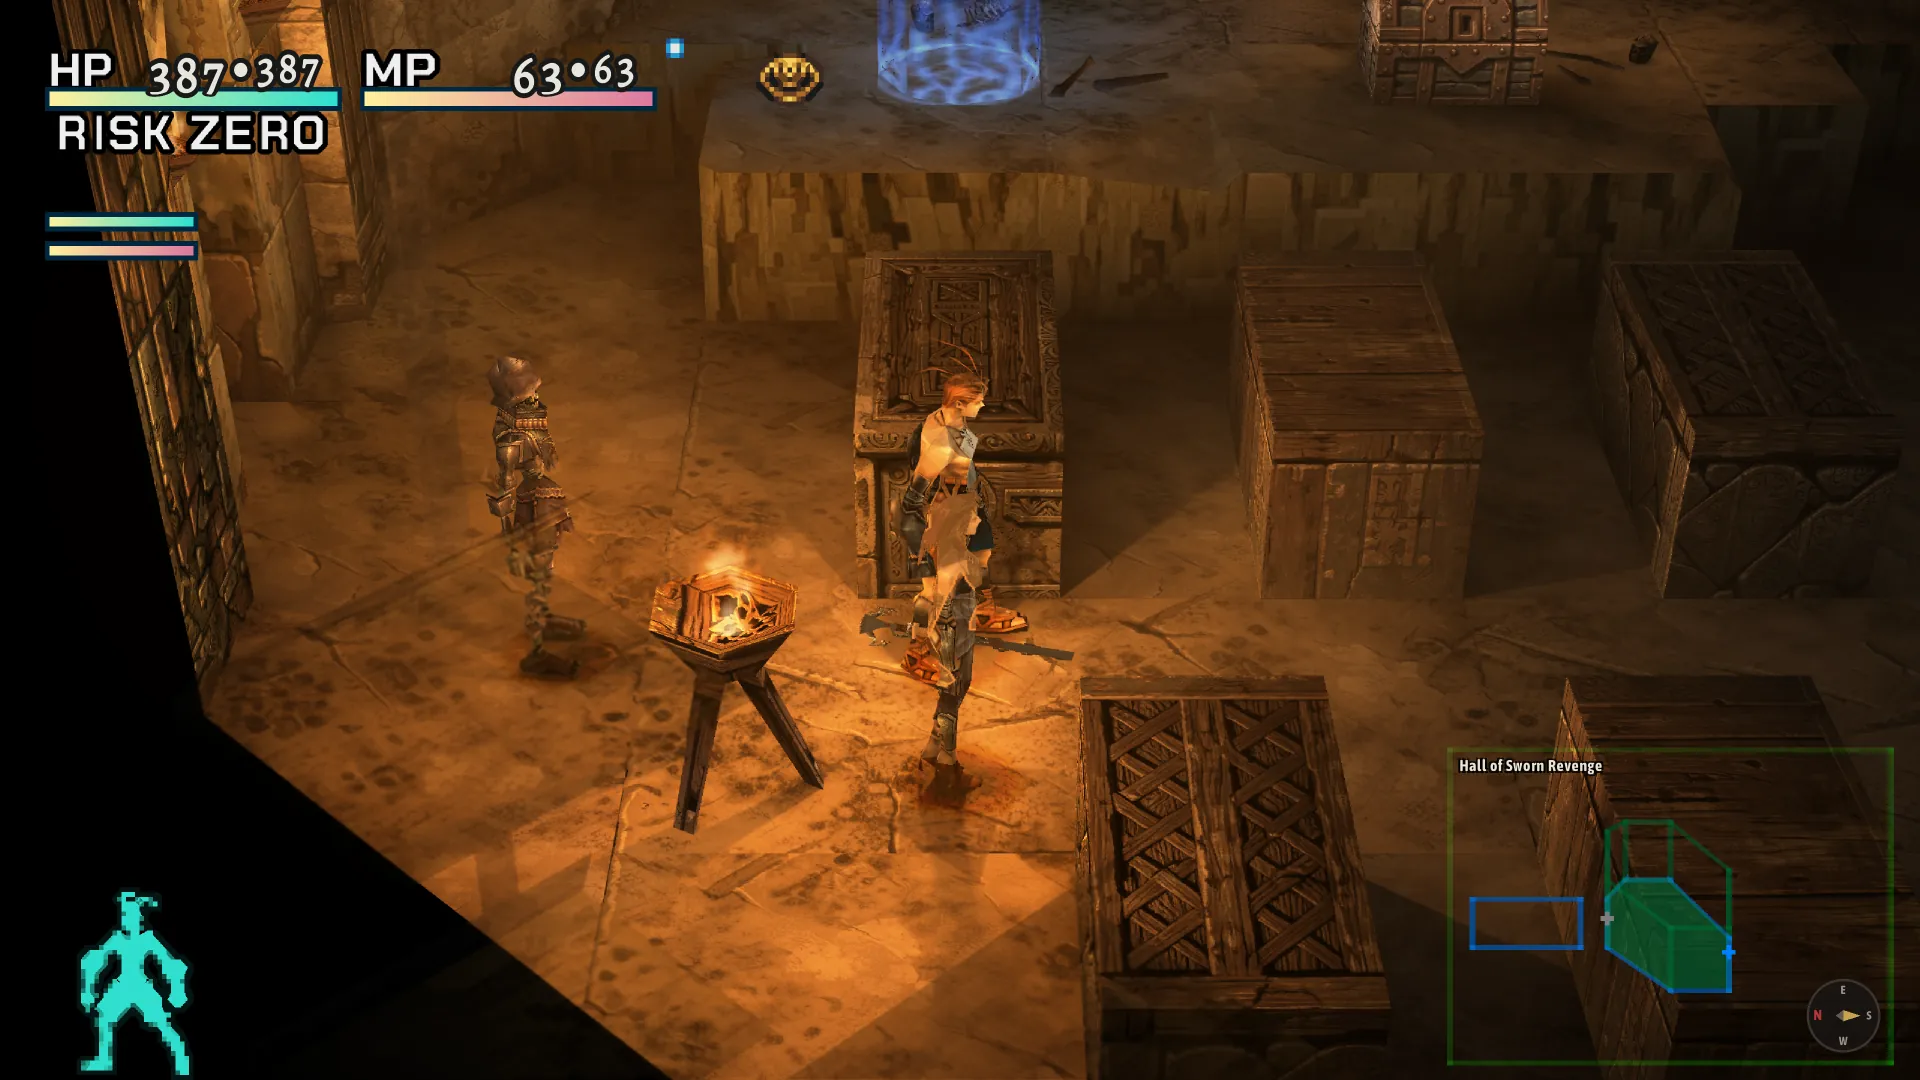
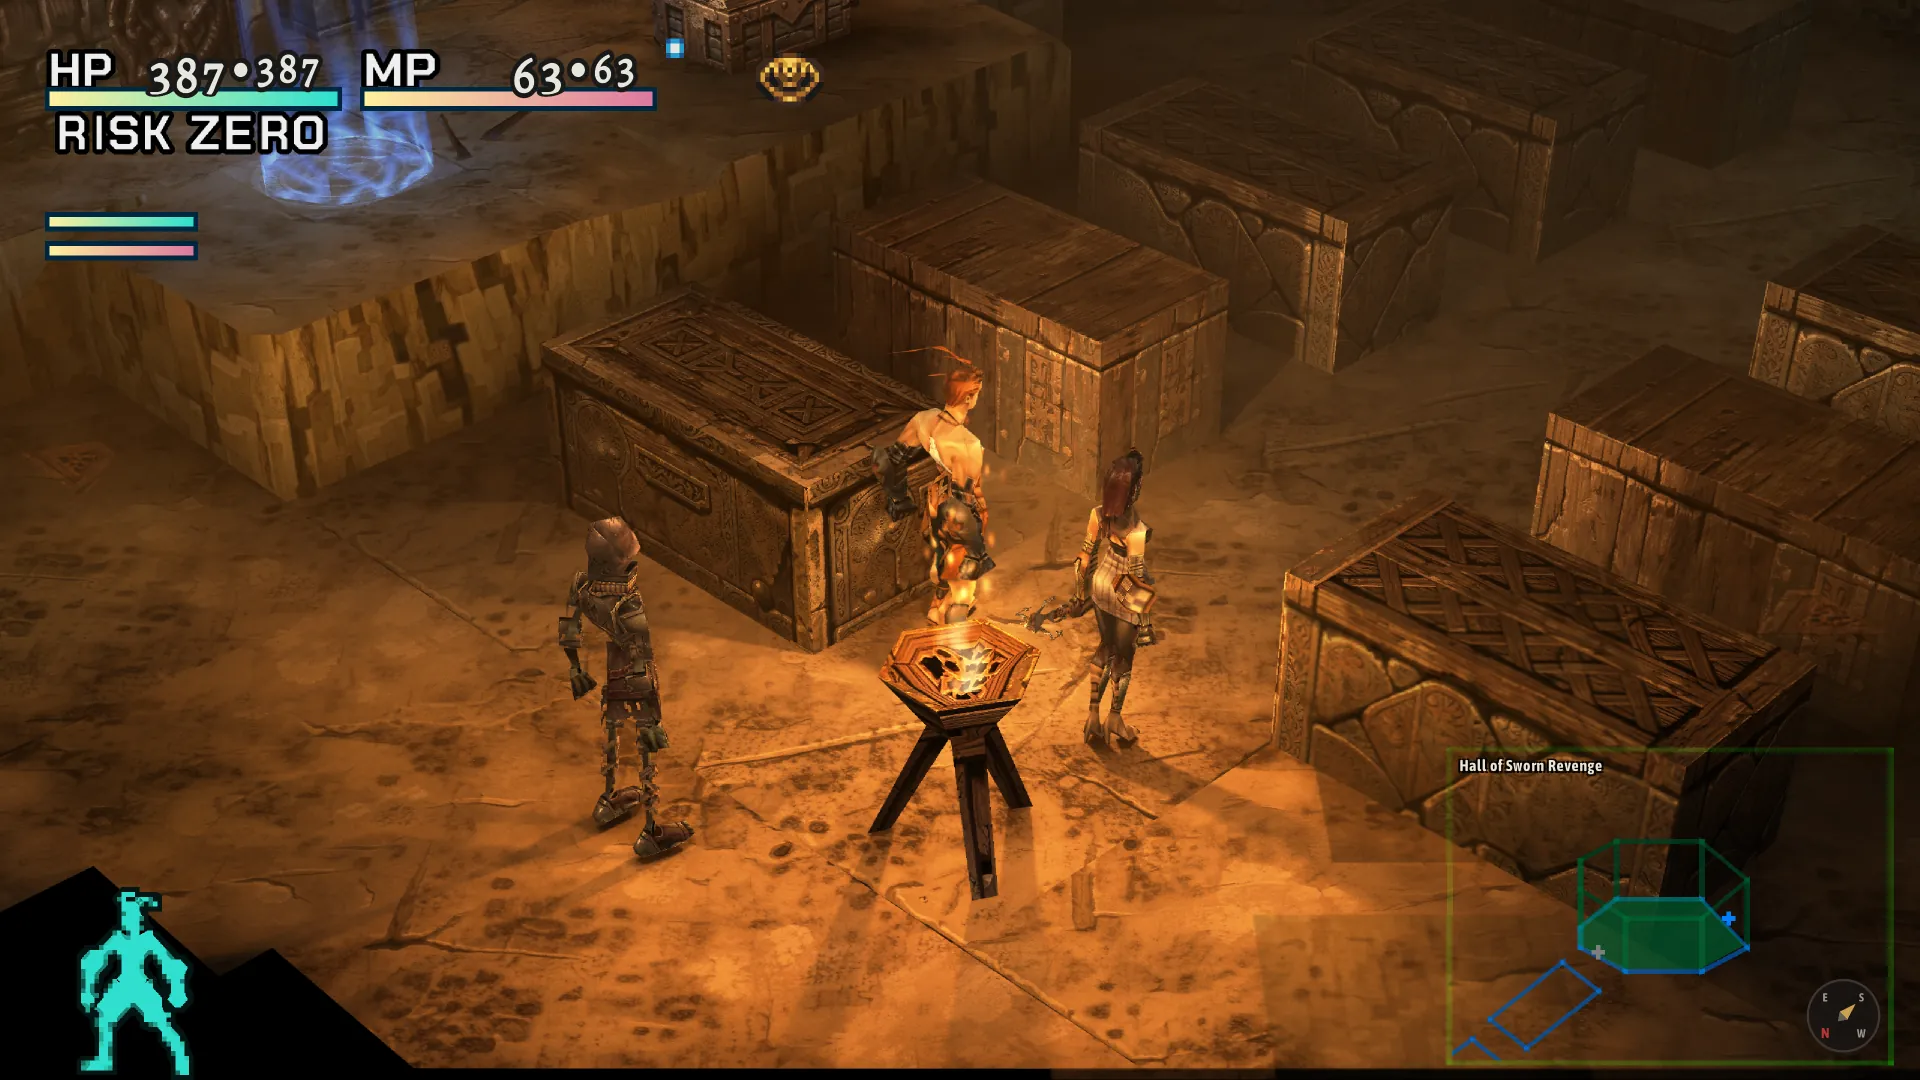
Retake the comparison sets and add the over-the-shoulder camera
HD frames were shot 4 vsyncs after the switch, before it had shown, so
rooms with relief still had it. Every set is retaken with 8 vsyncs for a
look change and 60 for anything lighting depends on. The textures slider
now has relief off on both sides. The heat haze posters shared filenames
with the Haze slider and overwrote it, so the clips get their own names.

Adds a Classic / Over the shoulder slider and three stills.

diff --git a/index.html b/index.html
@@ -103,7 +103,7 @@
     <figure class="cmp" data-pairs="0-2,1-2,0-1" aria-label="Ashley and Merlose on town steps by a stone wall, compared in three looks">
       <img src="img/town-original.webp" data-label="Original" width="1920" height="1080" loading="lazy" alt="A dark green town wall in blocks of pixels.">
       <img src="img/town-hd.webp" data-label="HD" width="1920" height="1080" loading="lazy" alt="The same wall, sharp but dark and green.">
-      <img src="img/town-remaster.webp" data-label="Remaster" width="1920" height="1080" loading="lazy" alt="The same wall in cool daylight with clear stonework and dappled shade on the path.">
+      <img src="img/town-remaster.webp" data-label="Remaster" width="1920" height="1080" loading="lazy" alt="The same wall in cool daylight with clear stonework and a warm patch of light by the door.">
     </figure>
   </article>
 </div></section>
@@ -116,7 +116,7 @@
   </div>
 
   <article class="feature">
-    <div class="feature-head"><div><h3>HD textures</h3><p class="where">Graphics &rsaquo; HD texture replacements</p></div><div><p class="claim">These are not upscales. This is new artwork.</p><p>Over 2,000 textures. The game's originals were used as a structural guide: the layout, the shapes and how each image maps onto the models and rooms. On that structure the art was generated with AI tools under Tyler Freeman's direction, with surface detail the originals do not have, then chosen and corrected by hand over many passes for seams, skin, cloth, colour and transparency. Material maps and relief have no counterpart in the original game at all.</p><p class="aside">Two deliberate exceptions: characters keep their original painted faces, cleaned rather than redrawn, and the splash screens are faithful upscales of the originals.</p></div></div>
+    <div class="feature-head"><div><h3>HD textures</h3><p class="where">Graphics &rsaquo; HD texture replacements</p></div><div><p class="claim">These are not upscales. This is new artwork.</p><p>Over 2,000 textures, compared here with relief off on both sides. The game's originals were used as a structural guide: the layout, the shapes and how each image maps onto the models and rooms. On that structure the art was generated with AI tools under Tyler Freeman's direction, with surface detail the originals do not have, then chosen and corrected by hand over many passes for seams, skin, cloth, colour and transparency. Material maps and relief have no counterpart in the original game at all.</p><p class="aside">Two deliberate exceptions: characters keep their original painted faces, cleaned rather than redrawn, and the splash screens are faithful upscales of the originals.</p></div></div>
     <figure class="cmp" data-pairs="0-1" aria-label="The game's own textures compared with the HD texture pack">
       <img src="img/tex-off.webp" data-label="The game's textures" width="1920" height="1080" loading="lazy" alt="A street wall and door using the game's original textures, soft and blocky at this size.">
       <img src="img/tex-on.webp" data-label="HD textures" width="1920" height="1080" loading="lazy" alt="The same wall and door with sharp painted stone and wood.">
@@ -129,6 +129,19 @@
       <img src="img/relief-off.webp" data-label="Relief off" width="1920" height="1080" loading="lazy" alt="Cobbles by a brazier in the rain, lying flat.">
       <img src="img/relief-on.webp" data-label="Relief on" width="1920" height="1080" loading="lazy" alt="The same cobbles with each stone raised and rounded, catching the firelight.">
     </figure>
+  </article>
+
+  <article class="feature">
+    <div class="feature-head"><div><h3>Over-the-shoulder camera</h3><p class="where">Controls &rsaquo; Camera, or the quick menu (L3)</p></div><p>Classic keeps the game's own view from above. Over the shoulder brings the camera low and close behind Ashley, so you stand in the room instead of looking down on it. Field of view, distance and height are all yours to set, and cutscenes keep the game's own camera.</p></div>
+    <figure class="cmp" data-pairs="0-1" aria-label="The same fight from the classic camera and the over-the-shoulder camera">
+      <img src="img/cam-classic.webp" data-label="Classic" width="1920" height="1080" loading="lazy" alt="Ashley and Merlose facing a wraith, seen from high above under a street lamp.">
+      <img src="img/cam-ots.webp" data-label="Over the shoulder" width="1920" height="1080" loading="lazy" alt="The same fight from low behind Ashley, with the axe raised and the wraith close ahead.">
+    </figure>
+    <div class="grid after">
+      <figure><a href="img/cam-circle.webp"><img src="img/cam-circle.webp" width="1920" height="1080" loading="lazy" alt="Ashley and Merlose on the golden circle, with candles and carved walls rising behind them."></a><figcaption>The gold circle, at floor level</figcaption></figure>
+      <figure><a href="img/cam-street.webp"><img src="img/cam-street.webp" width="1920" height="1080" loading="lazy" alt="Close behind Ashley in a sunlit stone street, facing a skeleton by a pillar."></a><figcaption>The Undercity, close behind Ashley</figcaption></figure>
+      <figure><a href="img/cam-cathedral.webp"><img src="img/cam-cathedral.webp" width="1920" height="1080" loading="lazy" alt="Ashley and Merlose in a lit cathedral room with tiled floors and carved stone."></a><figcaption>The Cathedral</figcaption></figure>
+    </div>
   </article>
 
   <article class="feature">
@@ -212,8 +225,8 @@
   <article class="feature">
     <div class="feature-head"><div><h3>Heat haze</h3><p class="where">Graphics &rsaquo; Heat haze. Remaster on Vulkan.</p></div><p>The air shimmers faintly above braziers, hearths and big spells. It only reads in motion, so this one is a clip: watch the floor behind the sparks. Recorded at about 12 frames a second, one window grab at a time, so the game runs far smoother than this.</p></div>
     <div class="clips">
-      <figure><video src="img/haze-on.mp4" poster="img/haze-on.webp" width="900" height="700" autoplay muted loop playsinline preload="metadata" aria-label="Short clip: heat haze on, the air shimmers above a brazier"></video><figcaption>Heat haze on</figcaption></figure>
-      <figure><video src="img/haze-off.mp4" poster="img/haze-off.webp" width="900" height="700" autoplay muted loop playsinline preload="metadata" aria-label="Short clip: heat haze off, the same brazier with still air"></video><figcaption>Heat haze off</figcaption></figure>
+      <figure><video src="img/heat-on.mp4" poster="img/heat-on.webp" width="900" height="700" autoplay muted loop playsinline preload="metadata" aria-label="Short clip: heat haze on, the air shimmers above a brazier"></video><figcaption>Heat haze on</figcaption></figure>
+      <figure><video src="img/heat-off.mp4" poster="img/heat-off.webp" width="900" height="700" autoplay muted loop playsinline preload="metadata" aria-label="Short clip: heat haze off, the same brazier with still air"></video><figcaption>Heat haze off</figcaption></figure>
     </div>
   </article>
 
@@ -293,7 +306,7 @@
     <li><strong>Three times the bag</strong><span>Far more equipment space, and saves stay compatible with the original.</span></li>
     <li><strong>Chain assist and fast casting</strong><span>Optional help with chain and defence timing, and hold R2 to speed up casting.</span></li>
     <li><strong>Fast travel</strong><span>Travel between Circles of Magic, with a choice of costs.</span></li>
-    <li><strong>Lantern and camera</strong><span>A hip lantern that lights the room around Ashley, and an over-the-shoulder camera beside the classic one.</span></li>
+    <li><strong>A lantern at the hip</strong><span>Lights the room around Ashley and casts real shadows, switched from the quick menu.</span></li>
     <li><strong>Cheats page</strong><span>Damage multiplier, Never zero, Risk, weapon growth, No wear, Workshop anywhere, Infinite HP, Pause AI.</span></li>
     <li><strong>Widescreen, or not</strong><span>16:9 with 4:3 still there if you want it. These shots are 16:9 so that every look lines up.</span></li>
     <li><strong>Crash fixes from real playthroughs</strong><span>Tested by playing it through on stream, and every crash found gets fixed.</span></li>
@@ -326,7 +339,7 @@
     </div>
     <div>
       <h2>About these images</h2>
-      <p>Every image is a real capture from the game at 3840 &times; 2160, only cropped or resized. Each comparison is one paused moment with the setting changed live; settings that need a new frame moved the game on by up to a second. A few shots used a test save with debug tools, for example to raise Risk or a weapon's element and to hold enemies still.</p>
+      <p>Every image is a real capture from the game at 3840 &times; 2160, only cropped or resized. Each comparison is one paused moment with the setting changed live; settings that need a new frame moved the game on by up to a second. The two camera shots show the same fight, not the same instant. A few shots used a test save with debug tools, for example to raise Risk or a weapon's element and to hold enemies still.</p>
       <p>The screenshots show the VS Reimagined texture pack, &copy; 2026 HDRcade, all rights reserved. They are not covered by the project's CC0 code licence. HD textures by HDRcade (VS Reimagined).</p>
     </div>
     <div>

diff --git a/style.css b/style.css
@@ -257,6 +257,7 @@ section { padding: clamp(3rem, 7vw, 5.5rem) clamp(1rem, 3vw, 2.5rem) 0; }
 .clips figcaption { padding: .4rem 0 0; color: var(--mute); font-size: .88rem; }
 
 .grid { display: grid; grid-template-columns: repeat(3, minmax(0, 1fr)); gap: clamp(.6rem, 1.4vw, 1rem); }
+.grid.after { margin-top: clamp(.6rem, 1.4vw, 1rem); }
 .grid figure { margin: 0; }
 .grid a { display: block; }
 .grid figcaption { padding: .4rem 0 .3rem; color: var(--mute); font-size: .88rem; }
